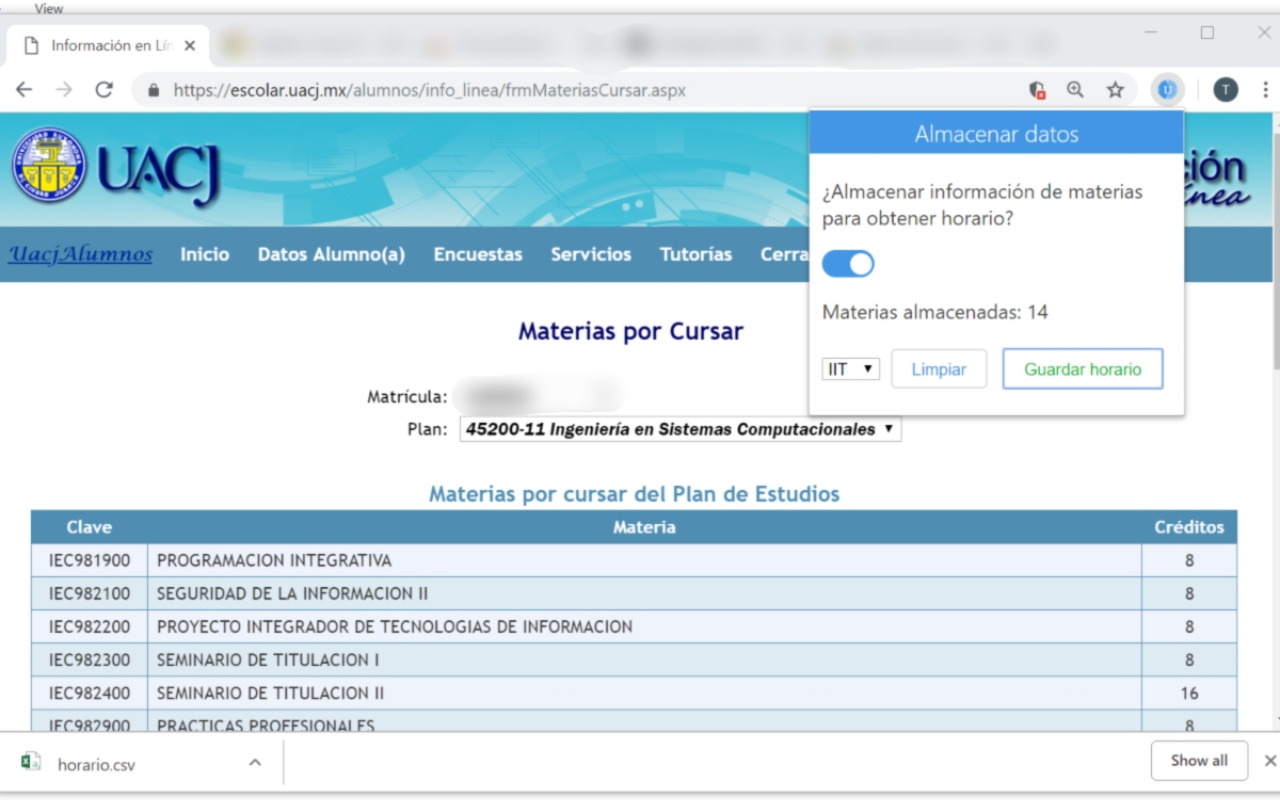
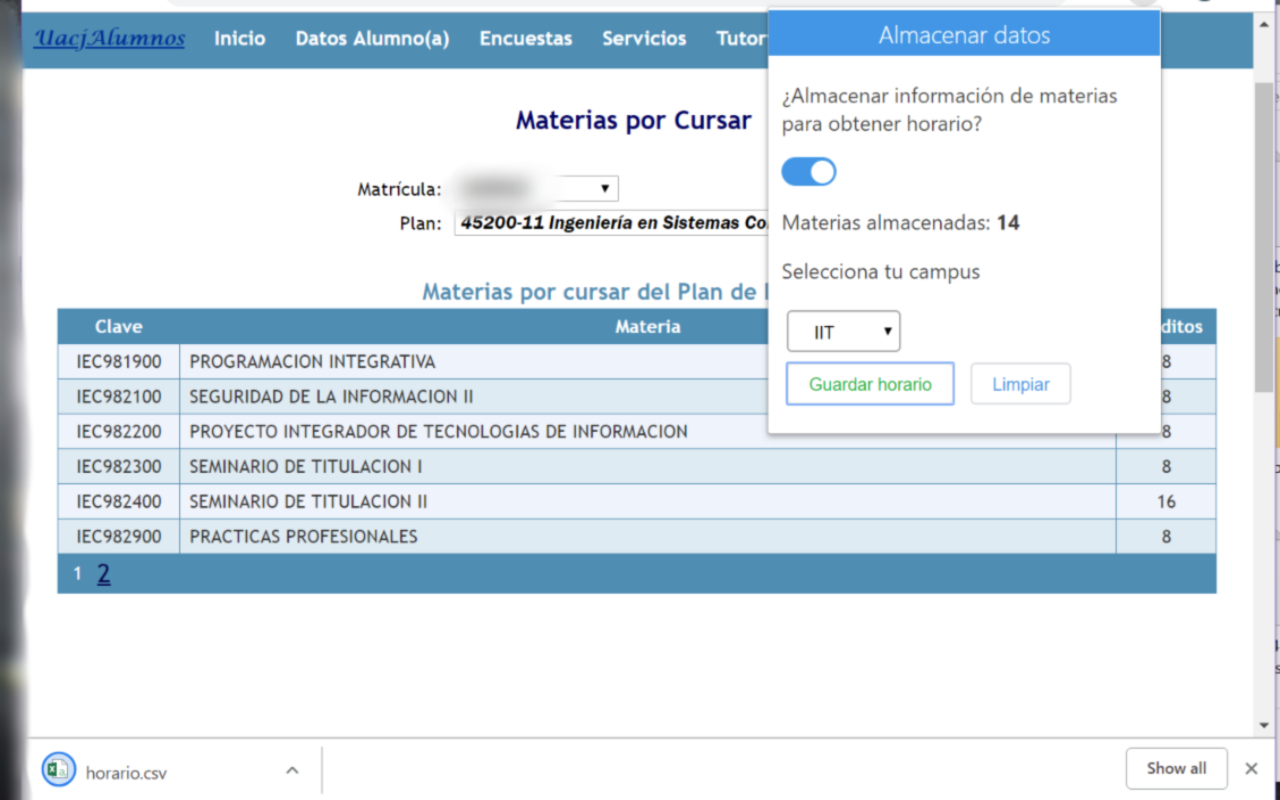
v0.1.4 Fixed bug Bug on popup, it ignored the first  subject

diff --git a/src/popup/popup.js b/src/popup/popup.js
@@ -53,10 +53,11 @@ function download(data, filename, type) {
 function ex(stringfile){
    var data = stringfile.split("\n");
    var final = [];
-   final.push(data[0]);
-   for(var i = 0; i < data.length; i++){
+   final.push(data[0]); // Export the headers of the original file
+
+   for(var i = 1; i < data.length; i++){
       var temp = data[i].split(",");
-      for(var j = 1; j < pending.length; j++){
+      for(var j = 0; j < pending.length; j++){
          if( temp[ template.UACJ.columnID ].split("-").join("") == pending[j][ template.UACJ.columnName ] ){
             final.push( temp.join(",") );
          }
